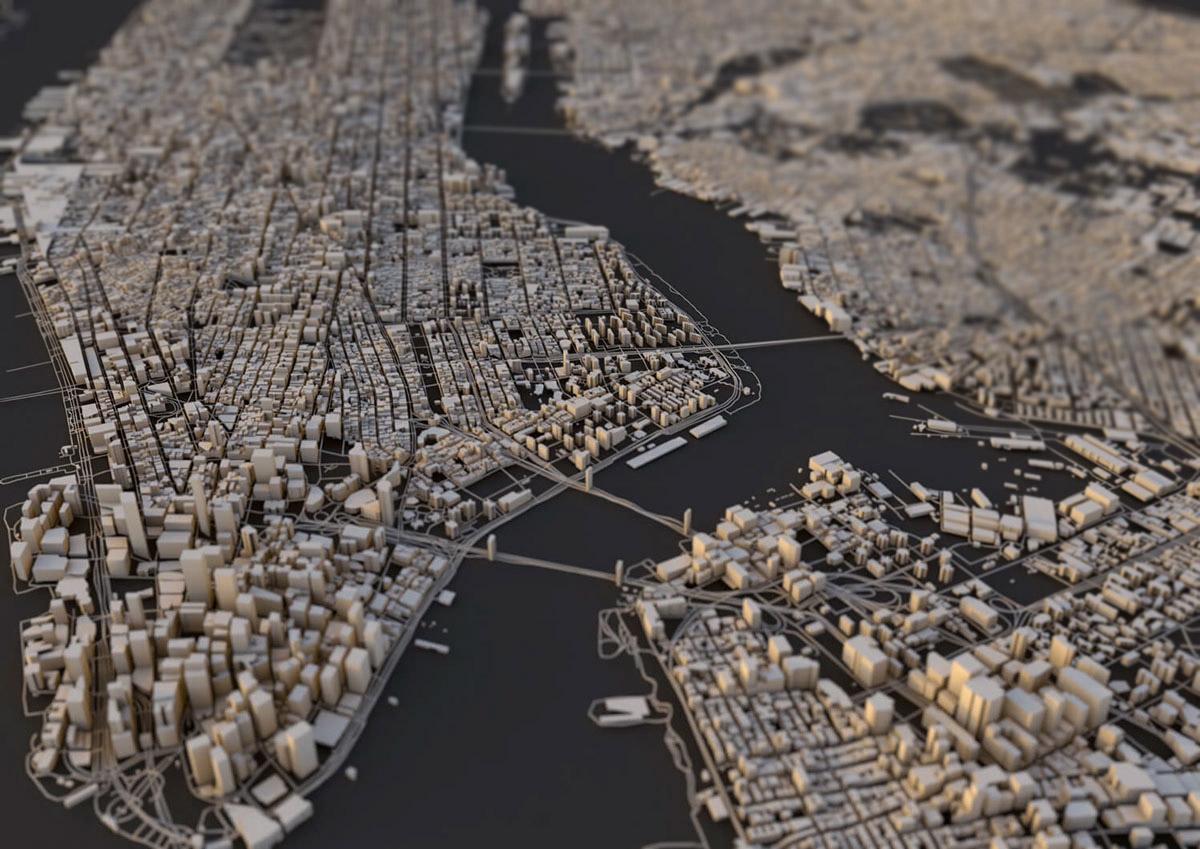
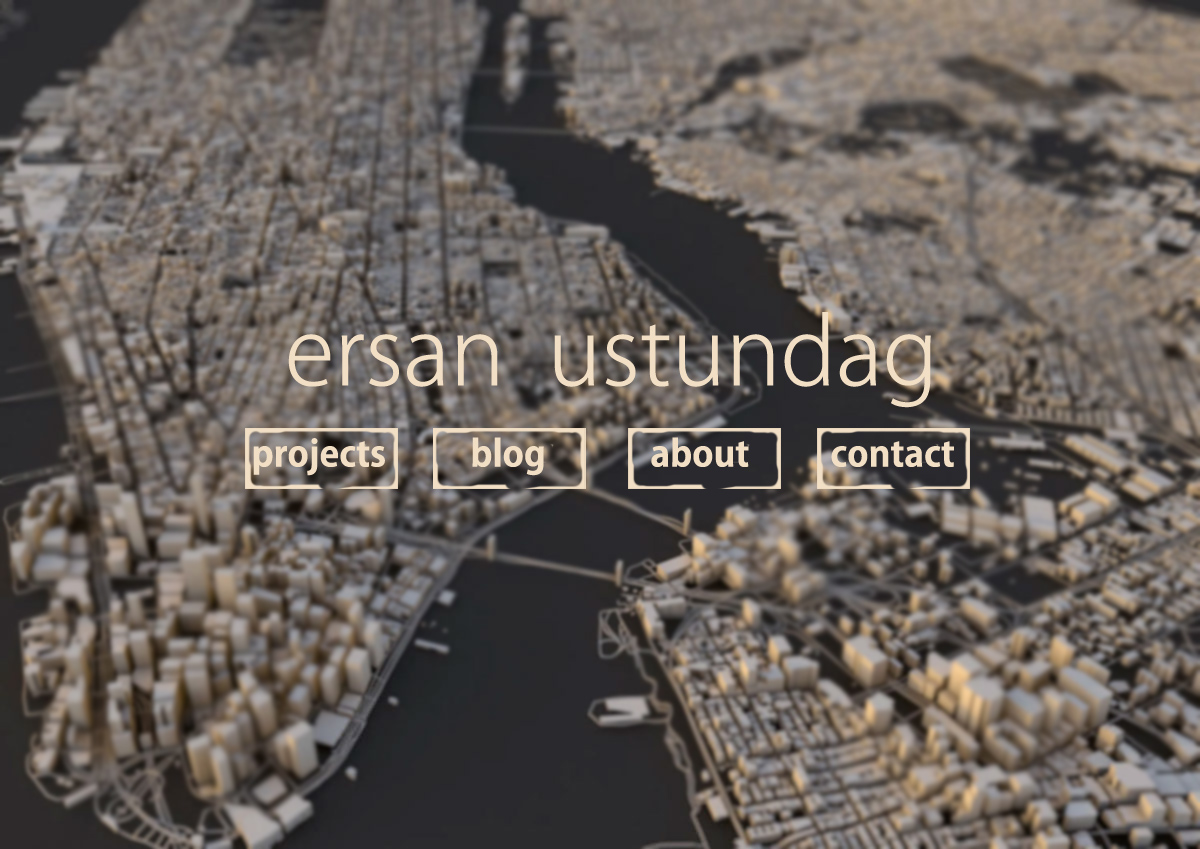
updated

diff --git a/body-style.css b/body-style.css
@@ -2,109 +2,50 @@ html{
 	font-family:Impact,Gadget,Capture it,Ubuntu,Play,Times,Arial;
 	font-size:20px;
 	color:#FFFFFF;
-}
-#header-div{
-	position:absolute;
-	width:100%;
-	height:100px;
-	left:0px;
-	top:0px;
-	background-color:#000000;
-}
-a{
-	color:#FFFFFF;
-}
-a:visited{
-	color:#FFFFFF;
+	margin:0px;
 }
 body{
-	margin:0px;
-	display:block;
+	margin:0 auto;
 }
-#header_links{
-	text-align:right;
-	position:relative;
-	bottom:8px;
-	right:8px;
+div{
+	margin: 0 auto;
 }
-#left-sidebar-div{
-	position:absolute;
-	width:75px;
-	height:100%;
-	left:0px;
-	top:100px;
-	background-color:#0E5296;
-	border:1px solid grey;
-}
-#right-sidebar-div{
-	position:absolute;
-	width:75px;
-	height:100%;
-	right:0px;
-	top:100px;
-	background-color:#0E5296;
-	border:1px solid black;
-}
-#link-div{
-	position:absolute;
-	width:100%;
-	height:50px;
-	left:-1px;
-	top:100px;
-	border:1px solid grey;
-	background-color:#000000;
-}
-a{
-	text-decoration:none;
-}
-#body-div{
-	position:absolute;
-	top:0px;
-	left:-1px;
-	right:0px;
-	bottom:0px;
-	width:100%;
-	height:auto;
-	height:100%;
-}
-#overlay{
-	position: relative;
-	width: 200px;
-	height: 100px;
-	text-align: center;
-	line-height: 100px;
-	background-color: #fff;
-	border: 1px solid #666;
-	-webkit-border-radius: 30px;
-	-moz-border-radius: 30px;
-	border-radius: 100px;
-	-webkit-box-shadow: 2px 2px 4px #888;
-	-moz-box-shadow: 2px 2px 4px #888;
-	box-shadow: 2px 2px 4px #888;
-	font-size:25px;
-}
-#cat_text{
-	position:relative;
-	width: 300px;
+map{
+	margin: 0 auto;
 }
 #linkedin{
 	position:absolute;
-	top:5px;
-	right:3%;
-	margin-right:1%;
+	bottom:5px;
+	right:55%;
+	margin:0 auto;
 }
 #twitter{
 	position:absolute;
-	top:5px;
-	right:1%;
+	bottom:5px;
+	right:52%;
 }
 #background{
-	/*position:absolute;*/
+	position:absolute;
 	width:100%;
-	height:100%;
-	bottom:0px;
 	max-width:100%;
+	height:100%;
+	left:0;
+	/*bottom:-8px;
+	top:-8px;*/
+	right:0;
 }
-#link_style{
-	margin-left:5px;
+.container {
+    width: 100%;
+    height: 100%;
+    margin: 0 auto;
 }
+.container img.wide {
+    max-width: 100%;
+    max-height: 100%;
+    height: auto;
+}
+.container img.tall {
+    max-height: 100%;
+    max-width: 100%;
+    width: auto;
+}

diff --git a/index.html b/index.html
@@ -3,8 +3,16 @@
 		<link rel="stylesheet" type="text/css" href="body-style.css">
 	</head>
 	<body>
-			<img id="twitter" src="twitter.png"/>
-	     	<img id="background" src="nyc.jpg"/>
-	     	<img id="linkedin" src="linked.png"/>
+		<div class="container">
+			<map name="content_link">
+				<area shape="rect" coords="245,428,397,488" href="http://www.lego.com/en-us/">
+				<area shape="rect" coords="433,428,585,488" href="">
+				<area shape="rect" coords="628,428,780,488" href="">
+				<area shape="rect" coords="817,428,969,489" href="">
+			</map>
+			<img id="background" src="nyc.jpg" usemap="#content_link">
+			<a href="https://twitter.com/smokecode" target="_blank"><img id="twitter" src="twitter.png"/></a>
+	     	<a href="https://www.linkedin.com/in/ersanu" target="_blank"><img id="linkedin" src="linked.png"/></a>
+	     </div>
 	 </body>
 </html>
